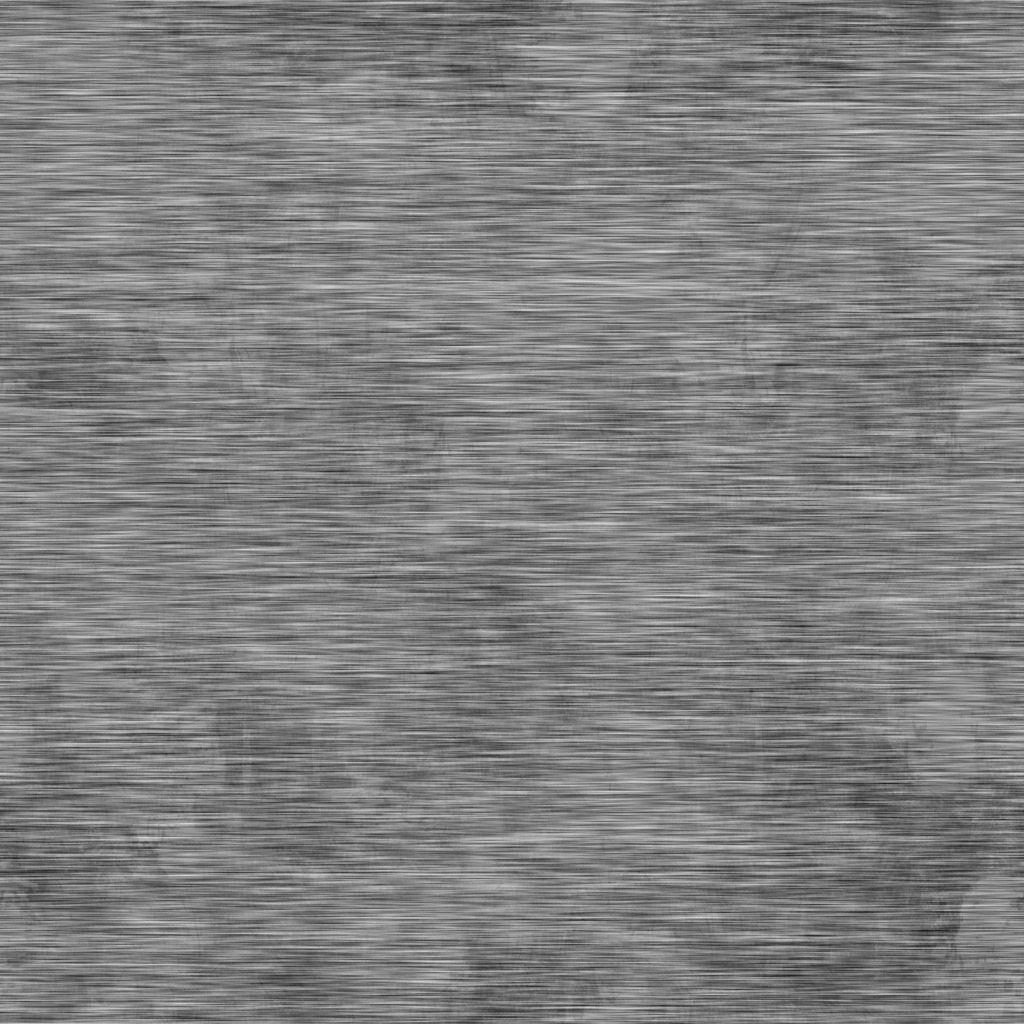
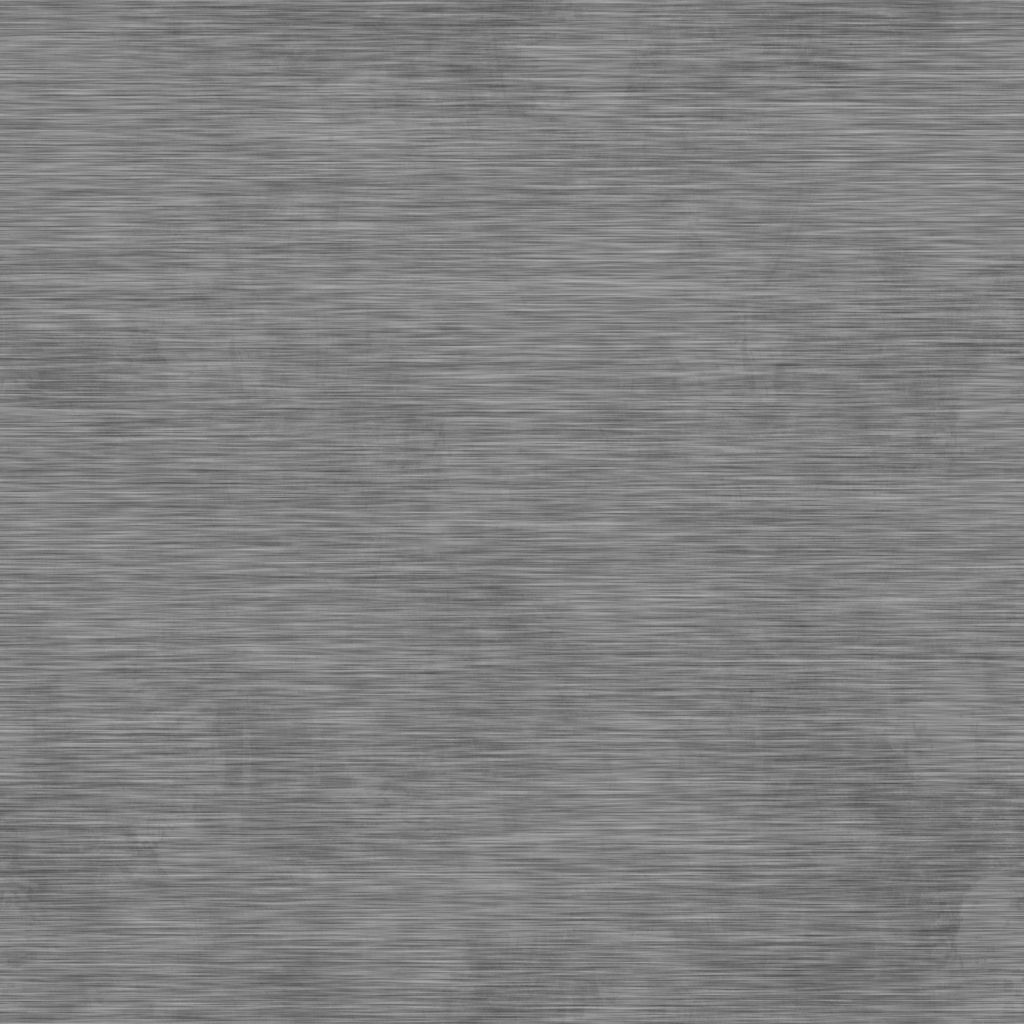
Halve the contrast of the title's brushed texture
The brushed grain on the home page title stood out too much. The
texture's contrast is now raised 2.5 times over Metal009's, not 5
times, so the grain is fainter against the gold. The file drops from
188 KB to 134 KB.

diff --git a/src/pages/Home/home.css b/src/pages/Home/home.css
@@ -136,7 +136,7 @@
   line-height: 0.95;
   letter-spacing: 0.01em;
   /* Brushed gold. brushed-metal.jpg is ambientCG's Metal009 (CC0), a seamless brushed steel, turned grey, centred on
-     mid-grey and with its contrast raised five times. The 1024 px file shows at 512 px, so the grain stays sharp on
+     mid-grey and with its contrast raised 2.5 times. The 1024 px file shows at 512 px, so the grain stays sharp on
      high-density screens. Overlay lightens or darkens the gold under it along the grain. */
   background:
     url('./brushed-metal.jpg'),
